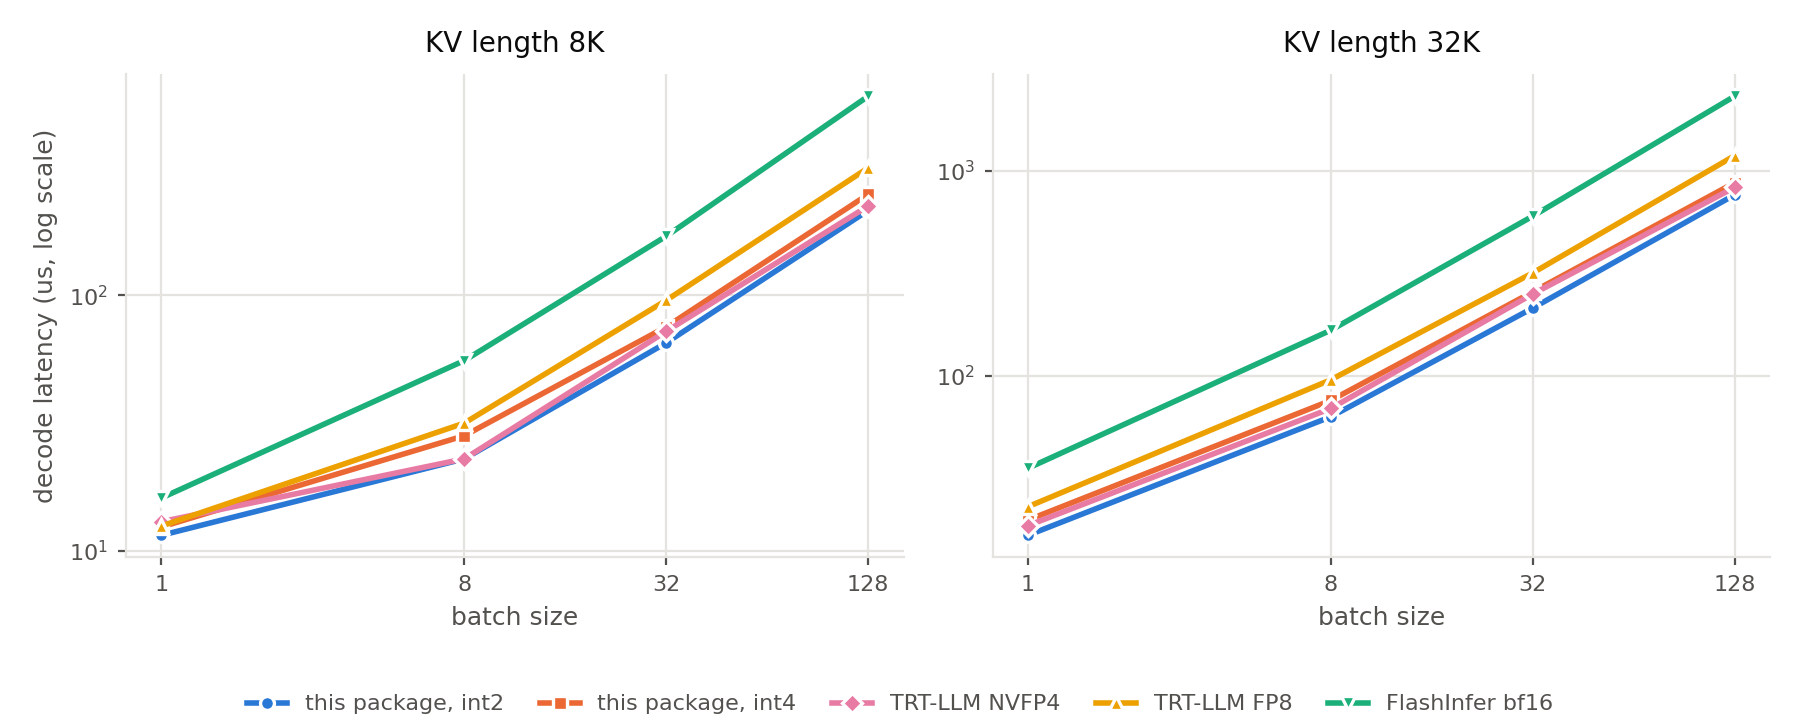
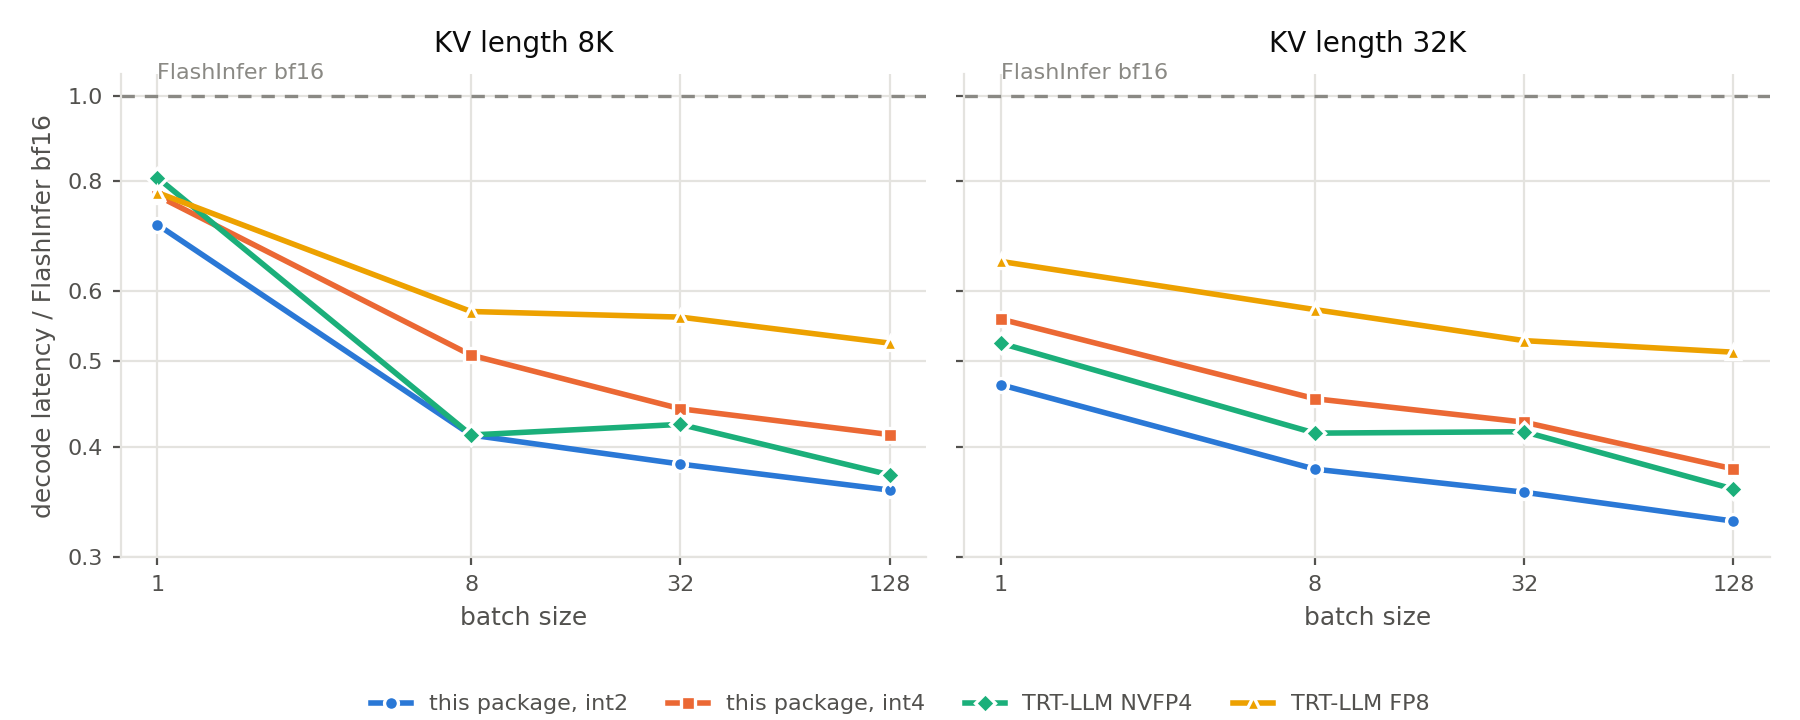
Figure shows normalized latency, table shows absolute
The figure now divides each series by FlashInfer bf16 at the same shape, with bf16
as a dashed reference line at 1.00 instead of a series of its own, and explicit
ratio ticks so a point can be read off. The table goes back to microseconds.

Also rewords the test commands: pytest -q is everything that needs no GPU, not a
'CPU-only suite'.

diff --git a/benchmarks/plot_decode.py b/benchmarks/plot_decode.py
@@ -1,8 +1,11 @@
 """Render the decode-latency figure from `decode_latency.csv`.
 
-Two panels, one per KV length, with batch on a log axis and decode latency on a
-log axis. The series are the two widths this package ships and the three decode
-kernels it is compared against. Run from the repository root:
+Two panels, one per KV length, with batch on a log axis. The y axis is each
+kernel's decode latency divided by FlashInfer bf16's at the same shape, so the
+dashed line at 1.00 is bf16 and every other series reads as a fraction of it.
+The absolute latencies are in the README table.
+
+Run from the repository root:
 
     python benchmarks/plot_decode.py
 """
@@ -16,25 +19,34 @@ import matplotlib.pyplot as plt
 
 HERE = pathlib.Path(__file__).resolve().parent
 OUT = HERE.parent / "docs" / "decode-latency.png"
+BASE = "flashinfer_bf16"
 
 # Fixed categorical order; identity is carried by position in the legend and by
-# the marker, not by colour alone.
+# the marker, not by colour alone. bf16 is the reference line rather than a
+# series, so it takes no hue.
 SERIES = [
     ("ours_int2", "this package, int2", "#2a78d6", "o"),
     ("ours_int4", "this package, int4", "#eb6834", "s"),
-    ("trtllm_nvfp4", "TRT-LLM NVFP4", "#e87ba4", "D"),
+    ("trtllm_nvfp4", "TRT-LLM NVFP4", "#1baf7a", "D"),
     ("trtllm_fp8", "TRT-LLM FP8", "#eda100", "^"),
-    ("flashinfer_bf16", "FlashInfer bf16", "#1baf7a", "v"),
 ]
 INK = "#0b0b0b"
 INK_2 = "#52514e"
 GRID = "#e4e3df"
+REF = "#8a8984"
 
 rows = list(csv.DictReader((HERE / "decode_latency.csv").open()))
 batches = sorted({int(r["batch"]) for r in rows})
 kv_lens = sorted({int(r["kv"]) for r in rows})
 
-fig, axes = plt.subplots(1, 2, figsize=(9.0, 3.6), sharey=False)
+
+def us(kernel, batch, kv):
+    hit = [r for r in rows if r["kernel"] == kernel and int(r["batch"]) == batch
+           and int(r["kv"]) == kv]
+    return float(hit[0]["us"]) if hit else None
+
+
+fig, axes = plt.subplots(1, 2, figsize=(9.0, 3.6), sharey=True)
 fig.patch.set_facecolor("#ffffff")
 
 for ax, kv in zip(axes, kv_lens):
@@ -42,19 +54,25 @@ for ax, kv in zip(axes, kv_lens):
     for key, label, color, marker in SERIES:
         xs, ys = [], []
         for b in batches:
-            hit = [r for r in rows if r["kernel"] == key and int(r["batch"]) == b
-                   and int(r["kv"]) == kv]
-            if hit:
+            base = us(BASE, b, kv)
+            val = us(key, b, kv)
+            if base and val:
                 xs.append(b)
-                ys.append(float(hit[0]["us"]))
+                ys.append(val / base)
         ax.plot(xs, ys, color=color, linewidth=2, marker=marker, markersize=5,
                 markeredgecolor="#ffffff", markeredgewidth=1.2, label=label,
                 zorder=3)
+
+    ax.axhline(1.0, color=REF, linewidth=1.2, linestyle=(0, (4, 3)), zorder=2)
+    ax.annotate("FlashInfer bf16", xy=(batches[0], 1.0), xytext=(0, 6),
+                textcoords="offset points", color=REF, fontsize=8, zorder=4)
 
     ax.set_xscale("log", base=2)
     ax.set_yscale("log")
     ax.set_xticks(batches)
     ax.set_xticklabels([str(b) for b in batches])
+    ax.set_yticks([0.3, 0.4, 0.5, 0.6, 0.8, 1.0])
+    ax.set_yticklabels(["0.3", "0.4", "0.5", "0.6", "0.8", "1.0"])
     ax.minorticks_off()
     ax.set_xlabel("batch size", color=INK_2, fontsize=9)
     ax.set_title(f"KV length {kv // 1024}K", color=INK, fontsize=10, pad=8)
@@ -65,12 +83,12 @@ for ax, kv in zip(axes, kv_lens):
         ax.spines[side].set_color(GRID)
     ax.tick_params(colors=INK_2, labelsize=8, length=3, width=0.8)
 
-axes[0].set_ylabel("decode latency (us, log scale)", color=INK_2, fontsize=9)
+axes[0].set_ylabel("decode latency / FlashInfer bf16", color=INK_2, fontsize=9)
 
 handles, labels = axes[0].get_legend_handles_labels()
-fig.legend(handles, labels, loc="lower center", ncol=5, frameon=False,
+fig.legend(handles, labels, loc="lower center", ncol=4, frameon=False,
            fontsize=8, labelcolor=INK_2, bbox_to_anchor=(0.5, -0.02),
-           handlelength=1.8, columnspacing=1.6)
+           handlelength=1.8, columnspacing=1.8)
 
 fig.tight_layout(rect=(0, 0.08, 1, 1))
 fig.savefig(OUT, dpi=200, facecolor="#ffffff")

diff --git a/README.md b/README.md
@@ -150,25 +150,24 @@ same Q dtype.
 
 ## Benchmarks
 
-Decode latency normalized against FlashInfer bf16 at the same shape, so 1.00 is
-FlashInfer bf16 and lower is better. The absolute latency in microseconds is in
-the figure below and in `benchmarks/decode_latency.csv`.
+Decode latency on one NVIDIA B200, against FlashInfer and TensorRT-LLM's
+`trtllm-gen` decode kernels. The figure plots each kernel's latency divided by
+FlashInfer bf16's at the same shape, so the dashed line at 1.00 is bf16 and every
+other series reads as a fraction of it. The table gives the latency itself, in
+microseconds.
 
-![Decode latency against batch size at KV lengths 8K and 32K](docs/decode-latency.png)
+![Decode latency relative to FlashInfer bf16, against batch size at KV lengths 8K and 32K](docs/decode-latency.png)
 
-| Batch | KV len | int2 | int4 | FlashInfer bf16 | TRT-LLM FP8 | TRT-LLM NVFP4 | bf16 (us) |
-|---:|---:|---:|---:|---:|---:|---:|---:|
-| 1 | 8K | **0.71x** | 0.77x | 1.00x | 0.78x | 0.81x | 16.1 |
-| 1 | 32K | **0.47x** | 0.56x | 1.00x | 0.65x | 0.52x | 35.3 |
-| 8 | 8K | **0.41x** | 0.51x | 1.00x | 0.57x | 0.41x | 55.5 |
-| 8 | 32K | **0.38x** | 0.45x | 1.00x | 0.57x | 0.41x | 166.9 |
-| 32 | 8K | **0.38x** | 0.44x | 1.00x | 0.56x | 0.42x | 170.2 |
-| 32 | 32K | **0.36x** | 0.43x | 1.00x | 0.53x | 0.42x | 602.4 |
-| 128 | 8K | **0.36x** | 0.41x | 1.00x | 0.52x | 0.37x | 600.4 |
-| 128 | 32K | **0.33x** | 0.38x | 1.00x | 0.51x | 0.36x | 2323.6 |
-
-The last column is the reference each row is divided by, so a row can be read
-back as absolute latency.
+| Batch | KV len | int2 | int4 | FlashInfer bf16 | TRT-LLM FP8 | TRT-LLM NVFP4 |
+|---:|---:|---:|---:|---:|---:|---:|
+| 1 | 8K | **11.5** | 12.4 | 16.1 | 12.5 | 13.0 |
+| 1 | 32K | **16.6** | 19.7 | 35.3 | 22.9 | 18.5 |
+| 8 | 8K | **22.9** | 28.2 | 55.5 | 31.6 | 22.9 |
+| 8 | 32K | **63.0** | 75.7 | 166.9 | 95.5 | 69.2 |
+| 32 | 8K | **65.1** | 75.2 | 170.2 | 95.5 | 72.2 |
+| 32 | 32K | **214.1** | 257.0 | 602.4 | 317.9 | 250.7 |
+| 128 | 8K | **214.6** | 248.0 | 600.4 | 314.8 | 223.3 |
+| 128 | 32K | **765.9** | 877.7 | 2323.6 | 1189.8 | 832.7 |
 
 What the columns store per cached value, including the scale and offset:
 
@@ -181,7 +180,7 @@ Two things follow from that table and are worth stating plainly.
 The 2-bit kernel reads about 1.8 times fewer bytes than NVFP4 and takes 0.86 to
 1.00 of its latency, so the traffic saving does not turn into latency: the
 dequantization and the on-chip work absorb most of it. Against bf16, which
-stores 6.4 times as many bits per value, it takes 0.33 to 0.71.
+stores 6.4 times as many bits per value, it sits at 0.33 to 0.71 of the line.
 
 At 4 bits, where this package and NVFP4 store the same number of bits per value,
 the two are close and TRT-LLM is faster at seven of the eight shapes. The 2-bit
@@ -207,12 +206,16 @@ Which code produced each column:
 ## Testing
 
 ```sh
-pytest -q            # CPU suite: no GPU and no CUDA toolkit required
+pytest -q            # everything that needs no GPU
 pytest -m gpu        # the pool builders, on the hardware their kernel runs on
 ```
 
-A test module whose name ends in `_cpu` must pass with no GPU. The CPU suite
-runs in about ten seconds.
+A test module whose name ends in `_cpu` must pass with no GPU and no CUDA
+toolkit. Most of the package is host code, and these tests cover it: the
+planners, the pool builders, the kernel cache, the constructor contract, and the
+static geometry of the kernels, such as shared-memory bank models and fragment
+maps. The whole run takes about ten seconds, and on a GPU host the same command
+also runs the modules that need one.
 
 With a CUDA device and the CuTe DSL installed, the modules that need them run
 instead of skipping. The GPU test builds pools with the builder this package
